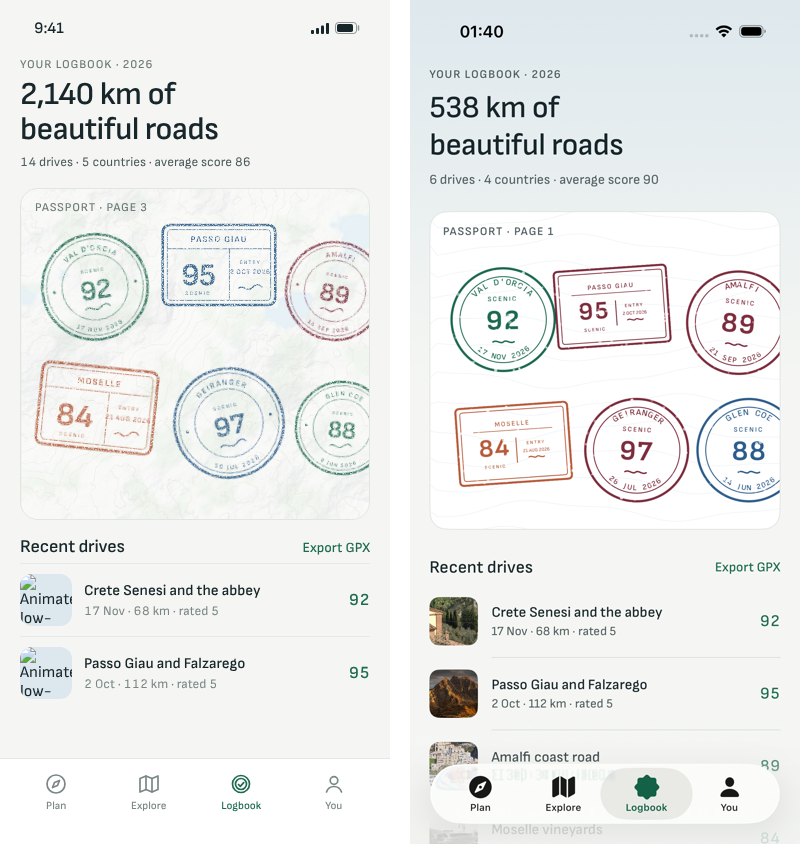
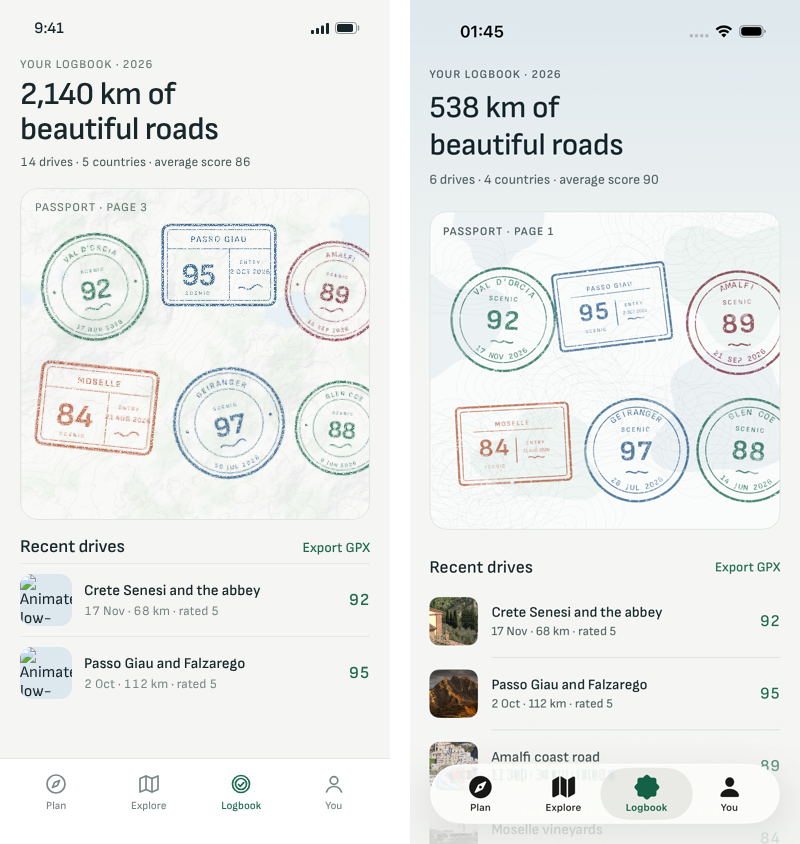
iOS: worn rubber-stamp ink on map paper; two-line drive instructions
StampWear: a fine dense grain over every stroke, a few lighter pressure
patches and rare small gaps, instead of solid ink with large cuts.
Passport paper: a faint tint, water and woodland washes, and contour rings
across the page. Stamp inks follow board 07 (green, blue, burgundy,
terracotta, blue, green) rather than turning burgundy at 95+. The drive
instruction allows two lines at 85% minimum scale.

Changed region(s): [[0.5625, 0.3081, 0.9688, 0.6161], [0.5625, 0.3081, 0.875, 0.4313], [0.5625, 0.0308, 0.625, 0.0616]]

diff --git a/apps/ios/App/Views/StampView.swift b/apps/ios/App/Views/StampView.swift
@@ -118,19 +118,32 @@ private struct Squiggle: SwiftUI.Shape {
 }
 
 /// Worn ink: an opaque mask with small, seeded gaps, like a rubber stamp on paper.
+/// Worn rubber-stamp ink: a fine dense grain over every stroke, a few lighter patches where the stamp
+/// pressed unevenly, and only rare small gaps. Seeded, so a stamp never flickers.
 private struct StampWear: View {
     let seed: Int
     var body: some View {
         Canvas { ctx, size in
-            ctx.fill(Path(CGRect(origin: .zero, size: size)), with: .color(.black))
+            ctx.fill(Path(CGRect(origin: .zero, size: size)), with: .color(.black.opacity(0.9)))
             var rng = SeededRandom(seed: UInt64(seed &* 2_654_435_761 &+ 1))
+            func unit() -> Double { Double(rng.next() % 10_000) / 10_000 }
             ctx.blendMode = .destinationOut
-            for _ in 0..<Int(size.width * size.height / 45) {
-                let x = Double(rng.next() % 10_000) / 10_000 * size.width
-                let y = Double(rng.next() % 10_000) / 10_000 * size.height
-                let r = 0.5 + Double(rng.next() % 100) / 100 * 2.0
-                let a = 0.35 + Double(rng.next() % 100) / 100 * 0.6
-                ctx.fill(Path(ellipseIn: CGRect(x: x, y: y, width: r * 2, height: r * 2)), with: .color(.black.opacity(a)))
+            // Uneven pressure: soft patches where the ink is lighter.
+            for _ in 0..<5 {
+                let r = (0.12 + unit() * 0.2) * size.width
+                let rect = CGRect(x: unit() * size.width - r / 2, y: unit() * size.height - r / 2, width: r, height: r * (0.6 + unit() * 0.6))
+                ctx.fill(Path(ellipseIn: rect), with: .color(.black.opacity(0.18 + unit() * 0.17)))
+            }
+            // Fine grain: many tiny specks.
+            for _ in 0..<Int(size.width * size.height / 6) {
+                let r = 0.25 + unit() * 0.55
+                ctx.fill(Path(ellipseIn: CGRect(x: unit() * size.width, y: unit() * size.height, width: r * 2, height: r * 2)),
+                         with: .color(.black.opacity(0.35 + unit() * 0.5)))
+            }
+            // A few small gaps.
+            for _ in 0..<Int(size.width * size.height / 900) {
+                let r = 0.8 + unit() * 1.4
+                ctx.fill(Path(ellipseIn: CGRect(x: unit() * size.width, y: unit() * size.height, width: r * 2, height: r * 1.4)), with: .color(.black))
             }
         }
     }
@@ -147,10 +160,9 @@ private struct SeededRandom {
 
 /// Stamp inks, varied per drive for a real passport feel; green is the default.
 enum StampInk {
-    static let all: [Color] = [Theme.green, Theme.lake, Theme.burgundy, Theme.terracotta]
-    static func forScore(_ score: Int, index: Int) -> Color {
-        score >= 95 ? Theme.burgundy : all[index % all.count]
-    }
+    /// The passport page's rhythm (design board 07): green, blue, burgundy, terracotta, blue, green.
+    static let all: [Color] = [Theme.green, Theme.lake, Theme.burgundy, Theme.terracotta, Theme.lake, Theme.green]
+    static func forScore(_ score: Int, index: Int) -> Color { all[index % all.count] }
 }
 
 extension LoggedDrive {

diff --git a/apps/ios/App/Views/LogbookView.swift b/apps/ios/App/Views/LogbookView.swift
@@ -144,23 +144,50 @@ struct PassportPage: View {
 }
 
 /// Faint contour lines, like the security print on a passport page.
+/// Passport paper printed with a faded topographic map: pale water patches and wobbly contour rings.
 private struct ContourTexture: View {
     var body: some View {
         Canvas { ctx, size in
-            for i in 0..<14 {
+            var rng = SeededRandom2(seed: 41)
+            func unit() -> CGFloat { CGFloat(rng.next() % 10_000) / 10_000 }
+            func blob(_ c: CGPoint, _ r: CGFloat, _ wobble: CGFloat, _ phase: CGFloat) -> Path {
                 var p = Path()
-                let y0 = size.height * CGFloat(i) / 12 - 20
-                p.move(to: CGPoint(x: 0, y: y0))
-                var x: CGFloat = 0
-                while x <= size.width {
-                    x += 8
-                    let y = y0 + sin(x / 46 + CGFloat(i) * 0.7) * 9 + sin(x / 17 + CGFloat(i)) * 2.5
-                    p.addLine(to: CGPoint(x: x, y: y))
+                for k in 0...48 {
+                    let t = CGFloat(k) / 48 * .pi * 2
+                    let rr = r * (1 + wobble * sin(t * 3 + phase) + wobble * 0.5 * sin(t * 5 + phase * 2))
+                    let pt = CGPoint(x: c.x + cos(t) * rr * 1.3, y: c.y + sin(t) * rr)
+                    if k == 0 { p.move(to: pt) } else { p.addLine(to: pt) }
                 }
-                ctx.stroke(p, with: .color(Theme.lake.opacity(0.13)), lineWidth: 0.9)
+                p.closeSubpath()
+                return p
+            }
+            ctx.fill(Path(CGRect(origin: .zero, size: size)), with: .color(Theme.green.opacity(0.025)))
+            // Water and woodland washes.
+            for i in 0..<5 {
+                let c = CGPoint(x: unit() * size.width, y: unit() * size.height)
+                let tint = i % 2 == 0 ? Theme.lake.opacity(0.07) : Theme.green.opacity(0.05)
+                ctx.fill(blob(c, 24 + unit() * 40, 0.18, unit() * 6), with: .color(tint))
+            }
+            // Hills as rings of contour lines.
+            for _ in 0..<16 {
+                let c = CGPoint(x: unit() * size.width, y: unit() * size.height)
+                let phase = unit() * 6, step = 6 + unit() * 4
+                for ring in 1...7 {
+                    ctx.stroke(blob(c, CGFloat(ring) * step, 0.2, phase + CGFloat(ring) * 0.35),
+                               with: .color(Theme.ink3.opacity(0.09)), lineWidth: 0.6)
+                }
             }
         }
         .accessibilityHidden(true)
+    }
+}
+
+private struct SeededRandom2 {
+    var state: UInt64
+    init(seed: UInt64) { state = seed }
+    mutating func next() -> UInt64 {
+        state ^= state << 13; state ^= state >> 7; state ^= state << 17
+        return state
     }
 }
 

diff --git a/apps/ios/App/Views/DriveView.swift b/apps/ios/App/Views/DriveView.swift
@@ -205,7 +205,8 @@ struct DriveView: View {
                 .frame(width: 56, height: 56).background(Theme.green, in: RoundedRectangle(cornerRadius: 14))
             VStack(alignment: .leading, spacing: 2) {
                 Text(distanceText(tracker.metresToNext)).font(Theme.sofia(28, .medium)).foregroundStyle(Theme.ink).monospacedDigit()
-                Text(tracker.nextStep?.text ?? "Follow the route").font(Theme.sofia(16)).foregroundStyle(Theme.ink).lineLimit(1)
+                Text(tracker.nextStep?.text ?? "Follow the route").font(Theme.sofia(16)).foregroundStyle(Theme.ink)
+                    .lineLimit(2).minimumScaleFactor(0.85).fixedSize(horizontal: false, vertical: true)
                 if let sub = subLine { Text(sub).font(Theme.sofia(13)).foregroundStyle(Theme.ink2).lineLimit(1) }
             }
             Spacer(minLength: 0)
